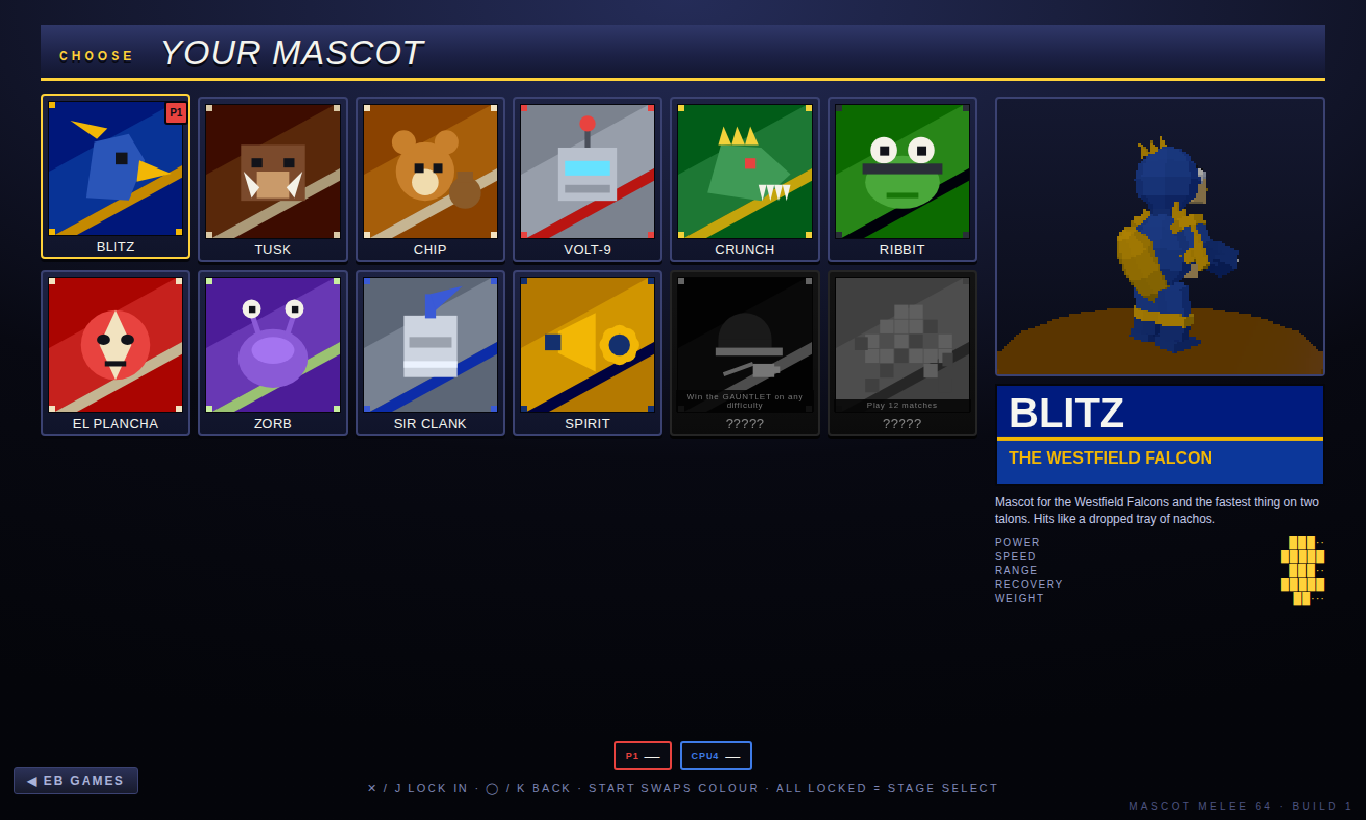
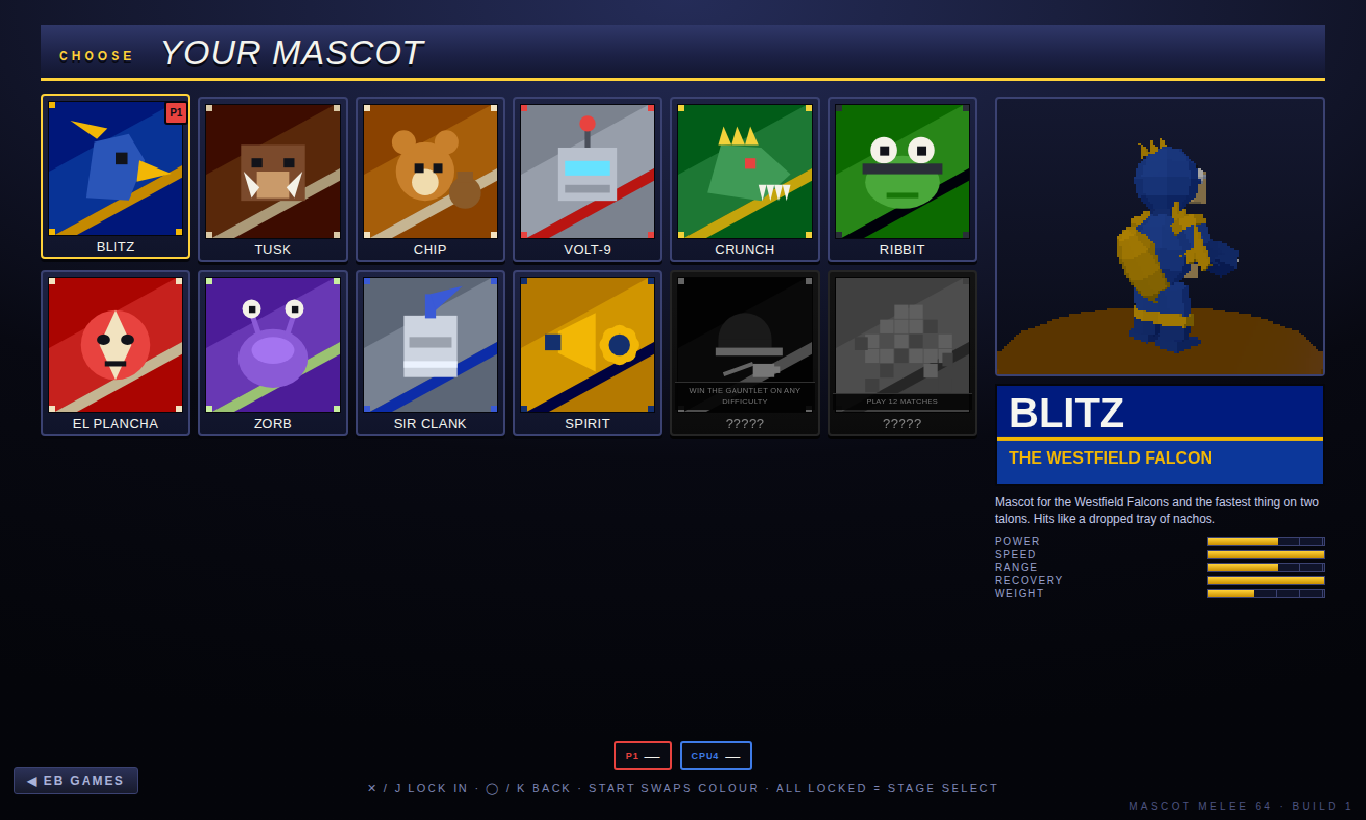
Character select: real stat meters instead of block-character bars
The five tier stats were drawn with repeated block glyphs, which wrapped into an
unreadable column in the narrow side pane. They are notched DOM bars now, and the
locked-fighter unlock hints fit inside their cells.

diff --git a/melee.css b/melee.css
@@ -259,9 +259,11 @@ body.crt-on #melee-crt { display: block; }
 .cs-cell.hover { border-color: var(--gold); transform: translateY(-3px); }
 .cs-cell.locked { filter: grayscale(1) brightness(0.55); }
 .cs-lock {
-  position: absolute; inset: auto 4px 22px 4px;
-  font-size: 8px; letter-spacing: 0.1em; text-align: center; color: var(--gold);
-  background: rgba(5,6,12,0.86); padding: 2px;
+  position: absolute; inset: auto 3px 24px 3px;
+  font-size: 7.5px; line-height: 1.35; letter-spacing: 0.04em; text-align: center;
+  color: var(--gold); text-transform: uppercase;
+  background: rgba(5,6,12,0.9); padding: 3px 2px;
+  border-top: 1px solid rgba(255,210,58,0.4);
 }
 .cs-token {
   position: absolute; width: 24px; height: 24px;
@@ -280,14 +282,21 @@ body.crt-on #melee-crt { display: block; }
 .cs-preview { height: min(34vh, 300px); background: linear-gradient(180deg, #141830, #0a0c18); border: 2px solid var(--line); border-radius: 4px; }
 .cs-plate { width: 100%; image-rendering: pixelated; border: 2px solid #05060c; }
 .cs-bio { font-size: 12px; line-height: 1.45; color: #c3c9e8; }
-.cs-stats { display: flex; flex-direction: column; gap: 2px; }
+.cs-stats { display: flex; flex-direction: column; gap: 5px; }
 .sb {
-  display: grid; grid-template-columns: 1fr auto; gap: 8px; align-items: baseline;
+  display: grid; grid-template-columns: 1fr 118px; gap: 10px; align-items: center;
   font-size: 10px; letter-spacing: 0.16em; color: #98a0cc;
 }
 .sb i {
-  font-style: normal; color: var(--gold); letter-spacing: 1px;
-  white-space: nowrap; font-size: 11px;
+  display: block; height: 9px;
+  background: #10142a;
+  border: 1px solid var(--line);
+  /* five notches, so a 3-of-5 stat reads as three filled segments */
+  background-image: repeating-linear-gradient(90deg, transparent 0 22px, var(--line) 22px 23px);
+}
+.sb i b {
+  display: block; height: 100%;
+  background: linear-gradient(180deg, var(--gold), #c98f00);
 }
 .cs-slots { display: flex; gap: 8px; margin-top: 10px; flex-wrap: wrap; justify-content: center; }
 .cs-chip {

diff --git a/src/melee/menu.js b/src/melee/menu.js
@@ -368,7 +368,7 @@ export class Menus {
       }
       const picks = {};
 
-      const statBar = (label, v) => `<div class="sb"><span>${label}</span><i>${'█'.repeat(v)}${'·'.repeat(5 - v)}</i></div>`;
+      const statBar = (label, v) => `<div class="sb"><span>${label}</span><i><b style="width:${v * 20}%"></b></i></div>`;
 
       const showDef = (def) => {
         plate.src = nameplateCanvas(def).toDataURL();
